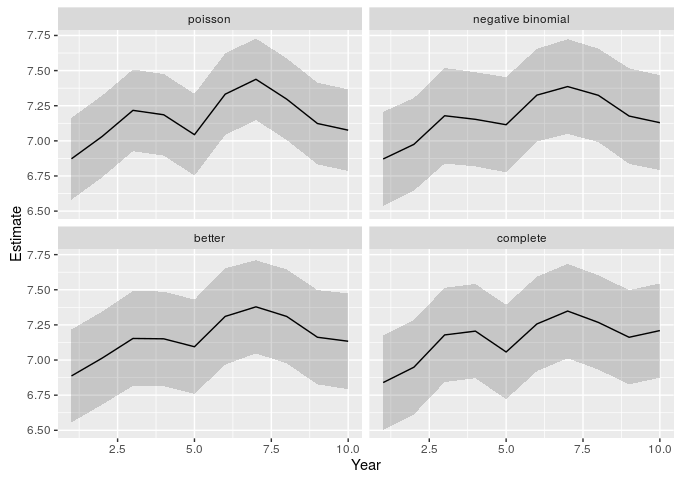
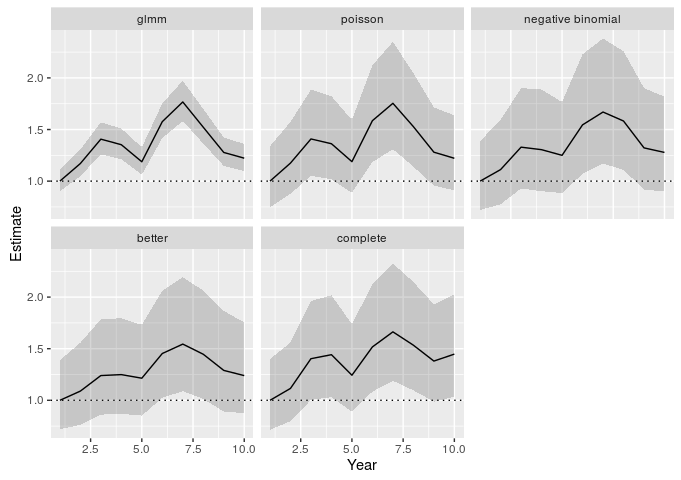
Examples use relative indices

diff --git a/README.md b/README.md
@@ -139,10 +139,20 @@ We will create several models, mainly to illustrate the capabilities of the `mul
 ``` r
 # a simple linear model
 imp.lm <- lm(Observed ~ fYear + fPeriod + fSite, data = dataset)
+# a mixed model with Poisson distribution
+# fYear and fPeriod are the fixed effects
+# Site are independent and identically distributed random intercepts
+library(lme4)
+imp.glmm <- glmer(
+  Observed ~ fYear + fPeriod + (1 | fSite), 
+  data = dataset, 
+  family = poisson
+)
 library(INLA)
 # a mixed model with Poisson distribution
 # fYear and fPeriod are the fixed effects
 # Site are independent and identically distributed random intercepts
+# the same model as imp.glmm
 imp.inla.p <- inla(
   Observed ~ fYear + fPeriod + f(Site, model = "iid"), 
   data = dataset, 
@@ -187,6 +197,7 @@ Most models have a `predict` method. In such a case `impute()` requires both a `
 
 ``` r
 raw.lm <- impute(imp.lm, data = dataset)
+raw.glmm <- impute(imp.glmm, data = dataset)
 raw.inla.p <- impute(imp.inla.p)
 raw.inla.nb <- impute(imp.inla.nb)
 raw.better <- impute(imp.better)
@@ -201,6 +212,11 @@ Suppose that we are interested in the sum of the counts over all sites for each 
 ``` r
 aggr.lm <- aggregate_impute(
   raw.lm, 
+  grouping = c("fYear", "fPeriod", "Year"), 
+  fun = sum
+)
+aggr.glmm <- aggregate_impute(
+  raw.glmm, 
   grouping = c("fYear", "fPeriod", "Year"), 
   fun = sum
 )
@@ -232,7 +248,9 @@ Model the aggregated imputed dataset
 Simple example
 --------------
 
-`model_impute()` will apply the `model.fun` to each imputation set. The covariates are defined in the `rhs` argument. The tricky part of this function the `extractor` argument. This is a user defined function which must have an argument called `model`. The function should return a `data.frame` or `matrix` with two columuns. The first column hold the estimate of a parameter of the `model`, the second column their standard error. Each row represents a parameter.
+`model_impute()` will apply the `model.fun` to each imputation set. The covariates are defined in the `rhs` argument. So `model.fun = lm` in combination with `rhs = "0 + fYear + fPeriod"` is equivalent to `lm(ImputedResponse ~ 0 + fYear + fPeriod, data = ImputedData)`.
+
+The tricky part of this function the `extractor` argument. This is a user defined function which must have an argument called `model`. The function should return a `data.frame` or `matrix` with two columuns. The first column hold the estimate of a parameter of the `model`, the second column their standard error. Each row represents a parameter.
 
 ``` r
 extractor.lm <- function(model){
@@ -298,8 +316,6 @@ Note that we pass extra arguments to the `extractor` function through the `extra
 
 ``` r
 library(mgcv)
-#> Loading required package: nlme
-#> This is mgcv 1.8-12. For overview type 'help("mgcv-package")'.
 new.set <- expand.grid(
   Year = pretty(dataset$Year, 20),
   fPeriod = dataset$fPeriod[1]
@@ -331,14 +347,143 @@ ggplot(model.gam, aes(x = Year, y = Estimate, ymin = LCL, ymax = UCL)) +
 Compare the results using different imputation models
 -----------------------------------------------------
 
+### Modelling aggregated data with `glm.nb`
+
+Suppose that we are interested in a yearly relative index taking into account the average seasonal pattern. With a complete dataset (without missing values) we could model it like the example below: a generalised linear model with negative binomial distribution because we have counts that are likely overdispersed. `fYear` models the yearly index and `fPeriod` the average seasonal pattern. The `0 +` part removes the intercept for the model. This simple trick gives direct estimates for the effect of `fYear`.
+
+Only the effects of `fYear` are needed for the index. Therefore the extractor functions selects only the parameters who's rowname contains fYear. In case that we want the first year to be used as a reference (index year 1 = 100%), we can substract the estimate for this year from all estimates. The result are the indices relative to the first year, but still in the log scale. Note that the estimated index for year 1 will be 0 and \(log(100\%) = 0\).
+
 ``` r
+library(MASS)
+aggr.complete <- aggregate(
+  dataset[, "Count", drop = FALSE],
+  dataset[, c("fYear", "fPeriod")],
+  FUN = sum
+)
+model.complete <- glm.nb(Count ~ 0 + fYear + fPeriod, data = aggr.complete)
+summary(model.complete)
+#> 
+#> Call:
+#> glm.nb(formula = Count ~ 0 + fYear + fPeriod, data = aggr.complete, 
+#>     init.theta = 31.78765186, link = log)
+#> 
+#> Deviance Residuals: 
+#>      Min        1Q    Median        3Q       Max  
+#> -2.71783  -0.47073   0.00869   0.47030   2.62272  
+#> 
+#> Coefficients:
+#>          Estimate Std. Error z value Pr(>|z|)    
+#> fYear1    6.72514    0.09016  74.590  < 2e-16 ***
+#> fYear2    6.83730    0.09005  75.929  < 2e-16 ***
+#> fYear3    7.06993    0.08985  78.684  < 2e-16 ***
+#> fYear4    7.09550    0.08983  78.985  < 2e-16 ***
+#> fYear5    6.94750    0.08995  77.237  < 2e-16 ***
+#> fYear6    7.13813    0.08980  79.487  < 2e-16 ***
+#> fYear7    7.23272    0.08974  80.597  < 2e-16 ***
+#> fYear8    7.16345    0.08979  79.784  < 2e-16 ***
+#> fYear9    7.05221    0.08987  78.475  < 2e-16 ***
+#> fYear10   7.10071    0.08983  79.046  < 2e-16 ***
+#> fPeriod2  0.36211    0.08027   4.511 6.44e-06 ***
+#> fPeriod3  0.41944    0.08024   5.227 1.72e-07 ***
+#> fPeriod4  0.34524    0.08027   4.301 1.70e-05 ***
+#> fPeriod5 -0.02515    0.08045  -0.313    0.755    
+#> fPeriod6 -0.47112    0.08076  -5.833 5.44e-09 ***
+#> ---
+#> Signif. codes:  0 '***' 0.001 '**' 0.01 '*' 0.05 '.' 0.1 ' ' 1
+#> 
+#> (Dispersion parameter for Negative Binomial(31.7877) family taken to be 1)
+#> 
+#>     Null deviance: 541101.695  on 60  degrees of freedom
+#> Residual deviance:     60.596  on 45  degrees of freedom
+#> AIC: 852.28
+#> 
+#> Number of Fisher Scoring iterations: 1
+#> 
+#> 
+#>               Theta:  31.79 
+#>           Std. Err.:  5.96 
+#> 
+#>  2 x log-likelihood:  -820.275
+extractor.logindex <- function(model){
+  coef <- summary(model)$coefficients
+  log.index <- coef[grepl("fYear", rownames(coef)), c("Estimate", "Std. Error")]
+  log.index[, "Estimate"] <- log.index[, "Estimate"] - log.index["fYear1", "Estimate"]
+  log.index
+}  
+```
+
+Now that we have a relevant model and exatractor function, we can apply them to the aggregate imputed datasets.
+
+``` r
+model.glmm <- model_impute(
+  object = aggr.glmm,
+  model.fun = glm.nb,
+  rhs = "0 + fYear + fPeriod",
+  extractor = extractor.logindex
+)
+model.p <- model_impute(
+  object = aggr.inla.p,
+  model.fun = glm.nb,
+  rhs = "0 + fYear + fPeriod",
+  extractor = extractor.logindex
+)
+model.nb <- model_impute(
+  object = aggr.inla.nb,
+  model.fun = glm.nb,
+  rhs = "0 + fYear + fPeriod",
+  extractor = extractor.logindex
+)
+model.better <- model_impute(
+  object = aggr.better,
+  model.fun = glm.nb,
+  rhs = "0 + fYear + fPeriod",
+  extractor = extractor.logindex
+)
+model.complete <- extractor.logindex(model.complete)
+colnames(model.complete) <- c("Estimate", "SE")
 covar <- data.frame(
   Year = sort(unique(dataset$Year))
 )
+# combine all results and add the Year
+parameters <- rbind(
+  cbind(covar, model.glmm, Model = "glmm"),
+  cbind(covar, model.p, Model = "poisson"),
+  cbind(covar, model.nb, Model = "negative binomial"),
+  cbind(covar, model.better, Model = "better"),
+  cbind(covar, model.complete, Model = "complete")
+)
+# calculate the confidence intervals in the log scale
+parameters$LCL <- qnorm(0.025, mean = parameters$Estimate, sd = parameters$SE)
+parameters$UCL <- qnorm(0.975, mean = parameters$Estimate, sd = parameters$SE)
+# convert estimate and confidence interval to the original scale
+parameters[, c("Estimate", "LCL", "UCL")] <- exp(parameters[, c("Estimate", "LCL", "UCL")])
+ggplot(parameters, aes(x = Year, y = Estimate, ymin = LCL, ymax = UCL)) + 
+  geom_hline(yintercept = 1, linetype = 3) +
+  geom_ribbon(alpha = 0.2) + 
+  geom_line() + 
+  facet_wrap(~Model)
+```
+
+![](README-model_glmnb-1.png)<!-- -->
+
+### Modelling aggregated data with `inla`
+
+The example below does something similar. Two things are different: 1) instead of `glm.nb` we use `inla` to model the imputed totals. 2) we model the seasonal pattern as a random intercept instead of a fixed effect.
+
+``` r
 extractor.inla <- function(model){
   fe <- model$summary.fixed[, c("mean", "sd")]
-  fe[grepl("fYear", rownames(fe)), ]
+  log.index <- fe[grepl("fYear", rownames(fe)), ]
+  log.index[, "mean"] <- log.index[, "mean"] - log.index["fYear1", "mean"]
+  log.index
 }
+model.p <- model_impute(
+  object = aggr.glmm,
+  model.fun = inla,
+  rhs = "0 + fYear + f(fPeriod, model = 'iid')",
+  model.args = list(family = "nbinomial"),
+  extractor = extractor.inla
+)
 model.p <- model_impute(
   object = aggr.inla.p,
   model.fun = inla,
@@ -360,11 +505,6 @@ model.better <- model_impute(
   model.args = list(family = "nbinomial"),
   extractor = extractor.inla
 )
-aggr.complete <- aggregate(
-  dataset[, "Count", drop = FALSE],
-  dataset[, c("fYear", "fPeriod")],
-  FUN = sum
-)
 m.complete <- inla(
   Count ~ 0 + fYear + f(fPeriod, model = "iid"),
   data = aggr.complete,
@@ -372,16 +512,22 @@ m.complete <- inla(
 )
 model.complete <- extractor.inla(m.complete)
 colnames(model.complete) <- c("Estimate", "SE")
+# combine all results and add the Year
 parameters <- rbind(
+  cbind(covar, model.glmm, Model = "glmm"),
   cbind(covar, model.p, Model = "poisson"),
   cbind(covar, model.nb, Model = "negative binomial"),
   cbind(covar, model.better, Model = "better"),
   cbind(covar, model.complete, Model = "complete")
 )
+# calculate the confidence intervals in the log scale
 parameters$LCL <- qnorm(0.025, mean = parameters$Estimate, sd = parameters$SE)
 parameters$UCL <- qnorm(0.975, mean = parameters$Estimate, sd = parameters$SE)
+# convert estimate and confidence interval to the original scale
+parameters[, c("Estimate", "LCL", "UCL")] <- exp(parameters[, c("Estimate", "LCL", "UCL")])
 ggplot(parameters, aes(x = Year, y = Estimate, ymin = LCL, ymax = UCL)) + 
-  geom_ribbon(, alpha = 0.2) + 
+  geom_hline(yintercept = 1, linetype = 3) + 
+  geom_ribbon(alpha = 0.2) + 
   geom_line() + 
   facet_wrap(~Model)
 ```
